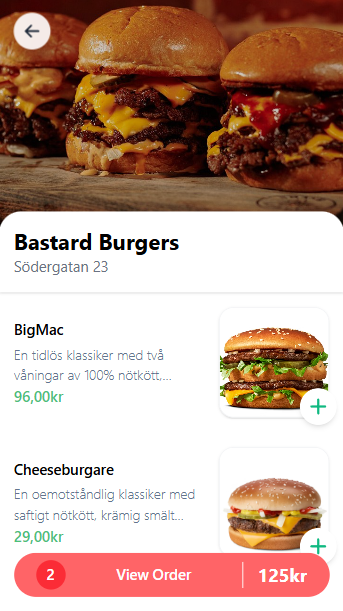
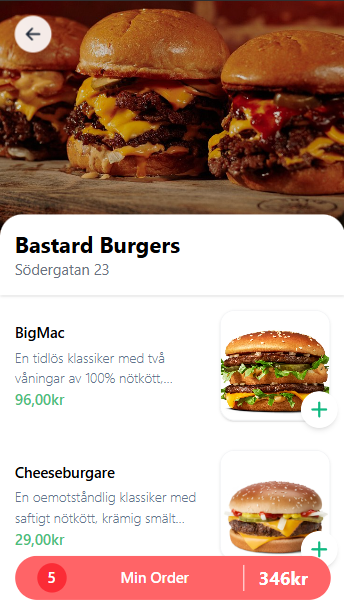
chore: change button text to swedish & update README screenshot

diff --git a/Frontend/src/components/RestaurantMenu.jsx b/Frontend/src/components/RestaurantMenu.jsx
@@ -144,7 +144,7 @@ const RestaurantMenu = () => {
                     onClick={() => setShowCart(true)}
                     className="w-full text-white bg-red-400 h-12 rounded-full font-semibold justify-between flex px-6 items-center">
                         <span className="rounded-full h-8 w-8 justify-center items-center flex bg-red-500">{totalItems}</span>
-                        <span>View Order</span>
+                        <span>Min Order</span>
                         <span className="border-l pl-4 text-xl font-bold text-white">{totalPrice}kr</span>
                     </button>
                 </div>
